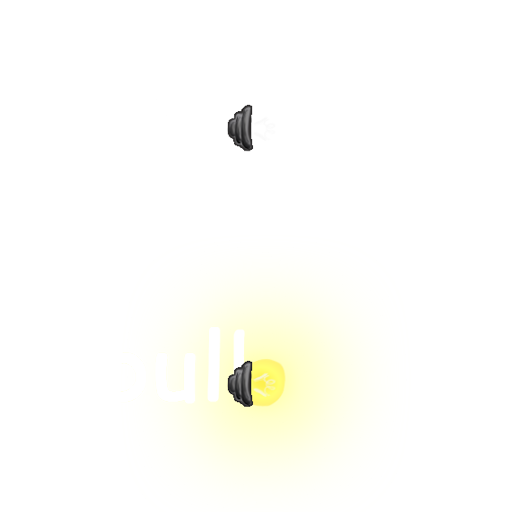
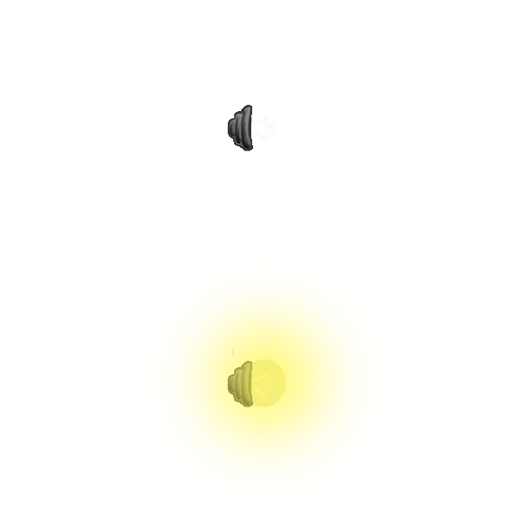
bulb: bugfixes, higher lighting res

Changed region(s): [[0.375, 0.625, 0.625, 0.8438]]

diff --git a/dgreed/apps/bulb/objects.c b/dgreed/apps/bulb/objects.c
@@ -456,7 +456,9 @@ RectF objects_move_player(Vector2 offset, bool* battery, bool* snd_button,
 			if(rectf_rectf_collision(&new_bbox, &objects[crate_id].rect)) {
 				Vector2 crate_offset = vec2((offset.x - dx.x)/2.0f, 0.0f);
 				crate_offset = _move_crate(crate_id, crate_offset);
-				min_crate_offset = MIN(min_crate_offset, crate_offset.x);
+				if(fabsf(min_crate_offset) > fabsf(crate_offset.y)) {
+					min_crate_offset = crate_offset.x;
+				}
 			}
 		}
 		if(min_crate_offset == INFINITY)
@@ -485,7 +487,9 @@ RectF objects_move_player(Vector2 offset, bool* battery, bool* snd_button,
 			if(rectf_rectf_collision(&new_bbox, &objects[crate_id].rect)) {
 				Vector2 crate_offset = vec2(0.0f, (offset.y - dy.y)/2.0f);
 				crate_offset = _move_crate(crate_id, crate_offset);
-				min_crate_offset = MIN(min_crate_offset, crate_offset.y);
+				if(fabsf(min_crate_offset) > fabsf(crate_offset.y)) {
+					min_crate_offset = crate_offset.y;
+				}
 			}
 		}
 		if(min_crate_offset == INFINITY)

diff --git a/dgreed/apps/bulb/lighting.c b/dgreed/apps/bulb/lighting.c
@@ -2,7 +2,7 @@
 
 #include <system.h>
 
-const float light_tile_size = 32.0f;
+const float light_tile_size = 16.0f;
 
 static TexHandle light_tex; 
 static RectF light_screen;
